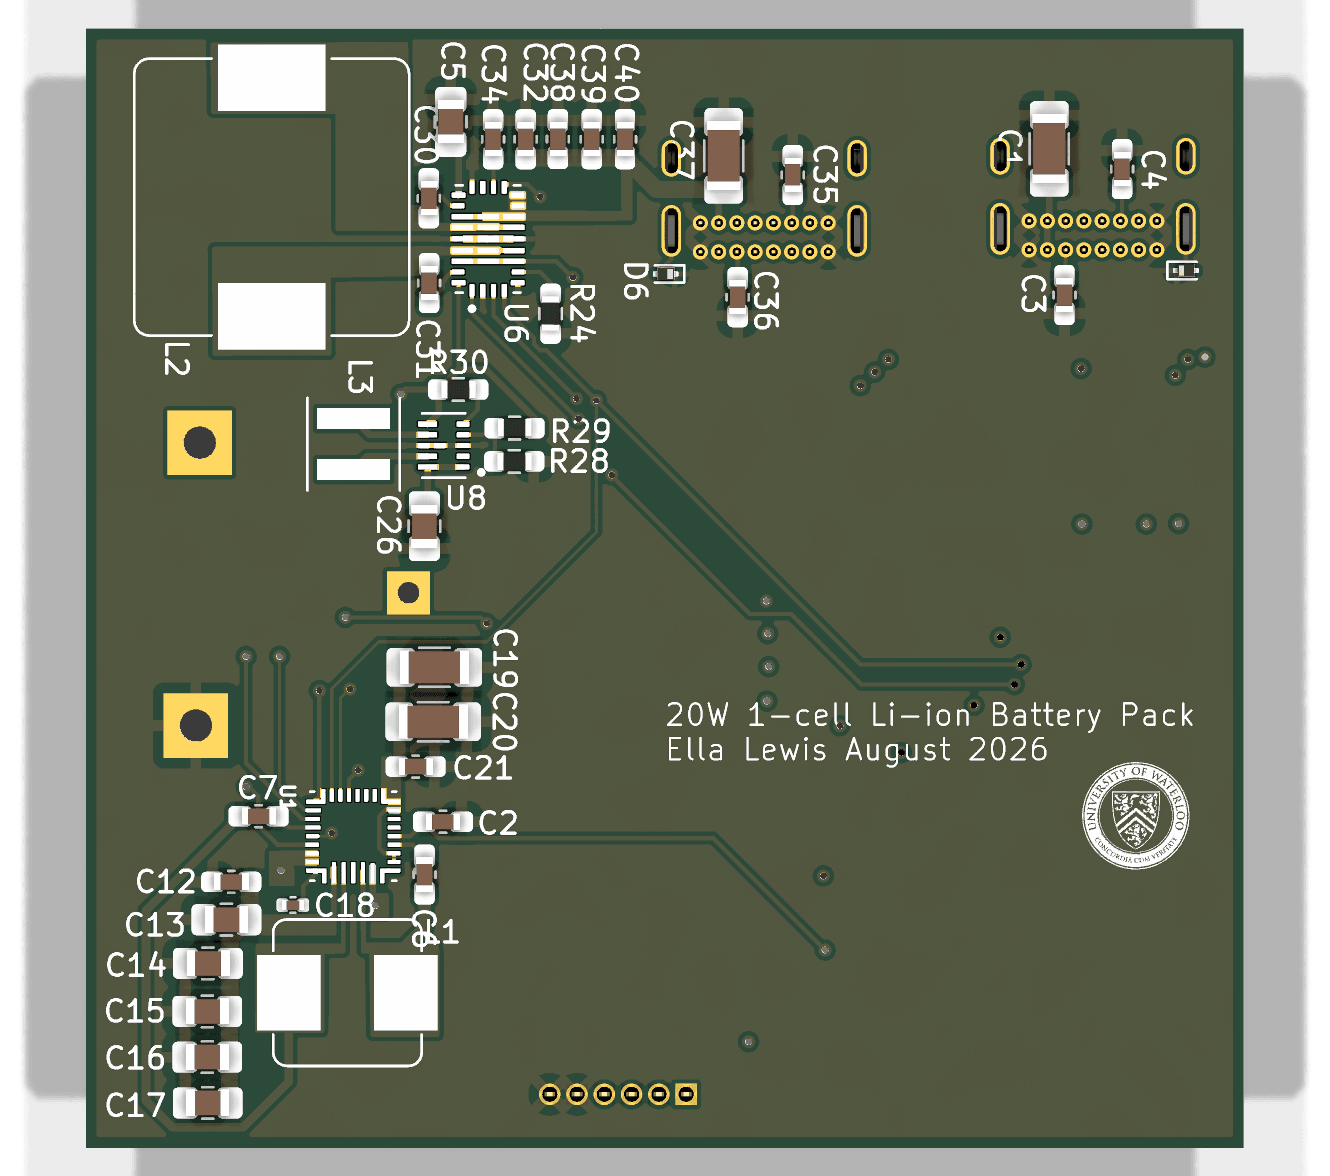
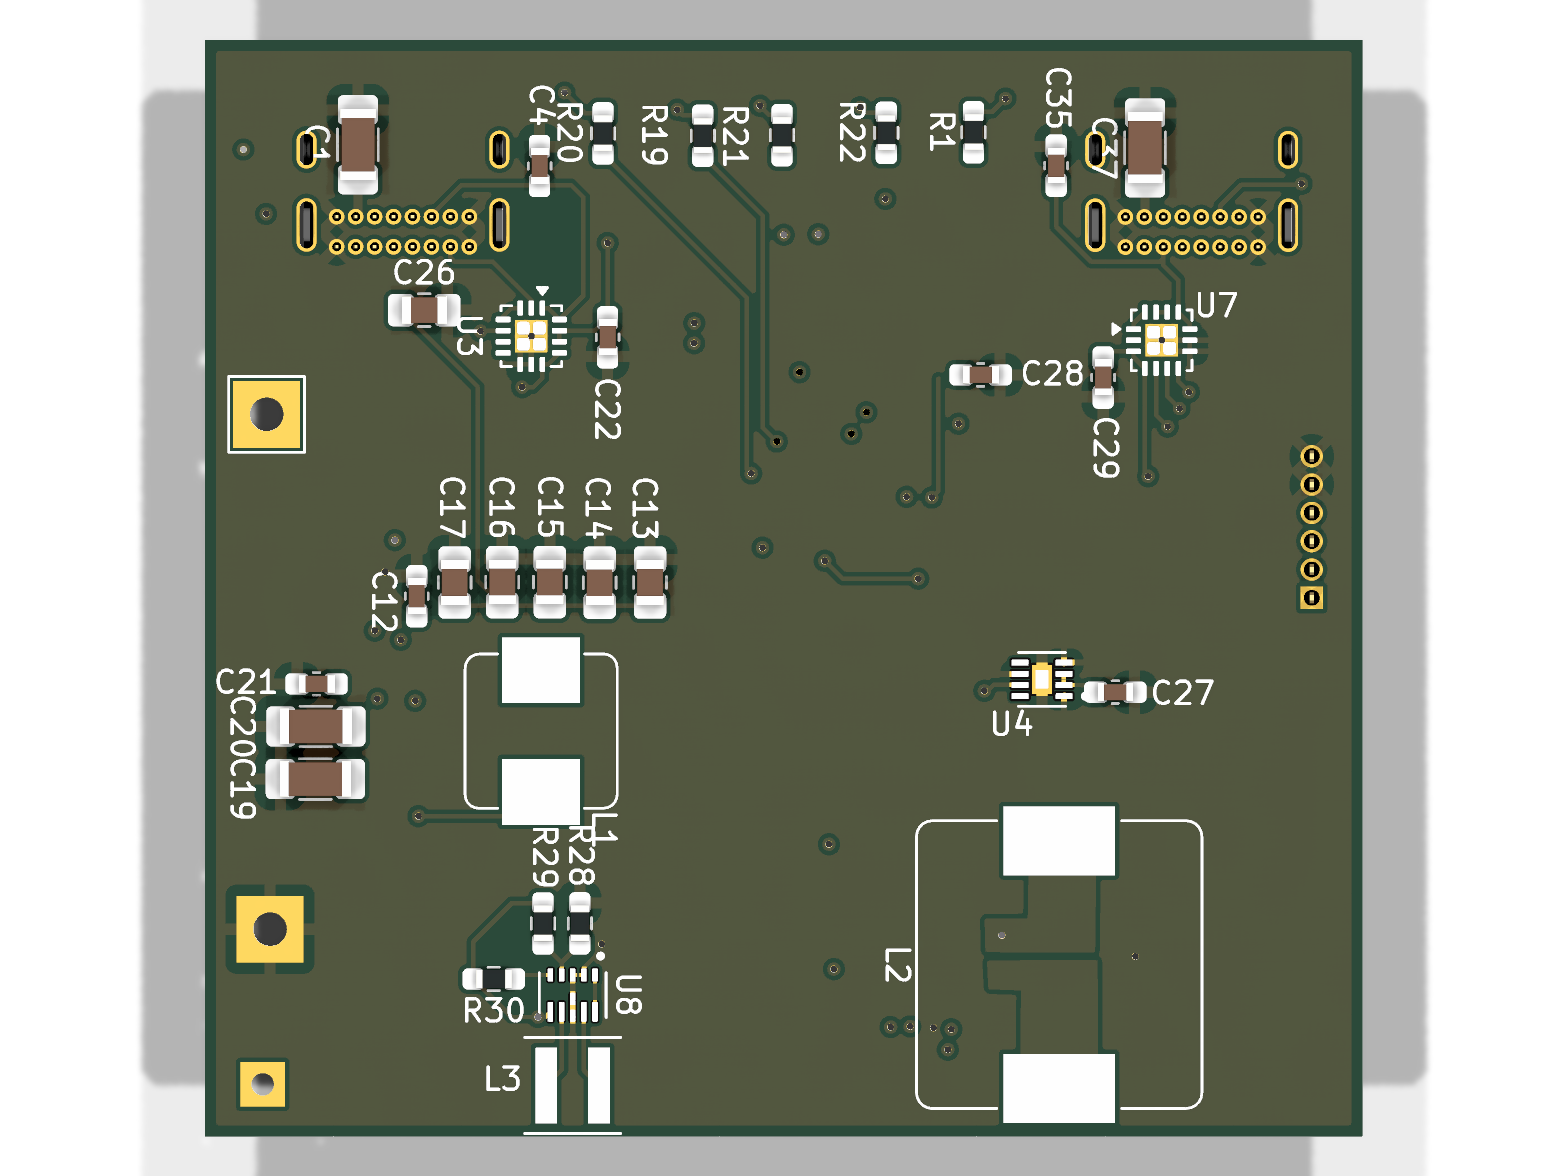
Battery pack 20 W rewrite, board renders for battery pack and mmWave sensor

diff --git a/project-mmwave.html b/project-mmwave.html
@@ -170,10 +170,18 @@
           <tr><td>Protection</td><td>TVS diodes on USB-C D+/D− lines for ESD</td></tr>
         </table>
 
+        <figure>
+          <span class="shot"><img src="images/mmwave-3d-iso.png" alt="Angled 3D render of the assembled v1.1 sensor board"></span>
+          <figcaption>v1.1 assembled, 50.1 &times; 37.2 mm, 2 layer, 56 components.</figcaption>
+        </figure>
         <div class="shot-grid">
-          <figure><span class="shot"><img src="images/mmwave-v11.jpg" alt="mmWave sensor v1.1 3D render"></span><figcaption>v1.1 — assembled render</figcaption></figure>
-          <figure><span class="shot"><img src="images/mmwave-v11-layout.jpg" alt="mmWave sensor v1.1 layout"></span><figcaption>v1.1 — copper layout</figcaption></figure>
+          <figure><span class="shot"><img src="images/mmwave-3d-top.png" alt="Top side 3D render of the v1.1 sensor board"></span><figcaption>Top: ESP32-S3 module, PIR and mmWave mount headers, boost converter, battery connector.</figcaption></figure>
+          <figure><span class="shot"><img src="images/mmwave-3d-bottom.png" alt="Bottom side 3D render of the v1.1 sensor board"></span><figcaption>Bottom: USB-C, LDO, BOOT and RESET buttons.</figcaption></figure>
         </div>
+        <figure>
+          <span class="shot"><img src="images/mmwave-v11-layout.jpg" alt="mmWave sensor v1.1 copper layout"></span>
+          <figcaption>v1.1 copper layout.</figcaption>
+        </figure>
 
         <figure>
           <span class="shot"><img src="images/mmwave-v11-antenna.jpg" alt="Layout showing antenna region and keep-out zones"></span>
